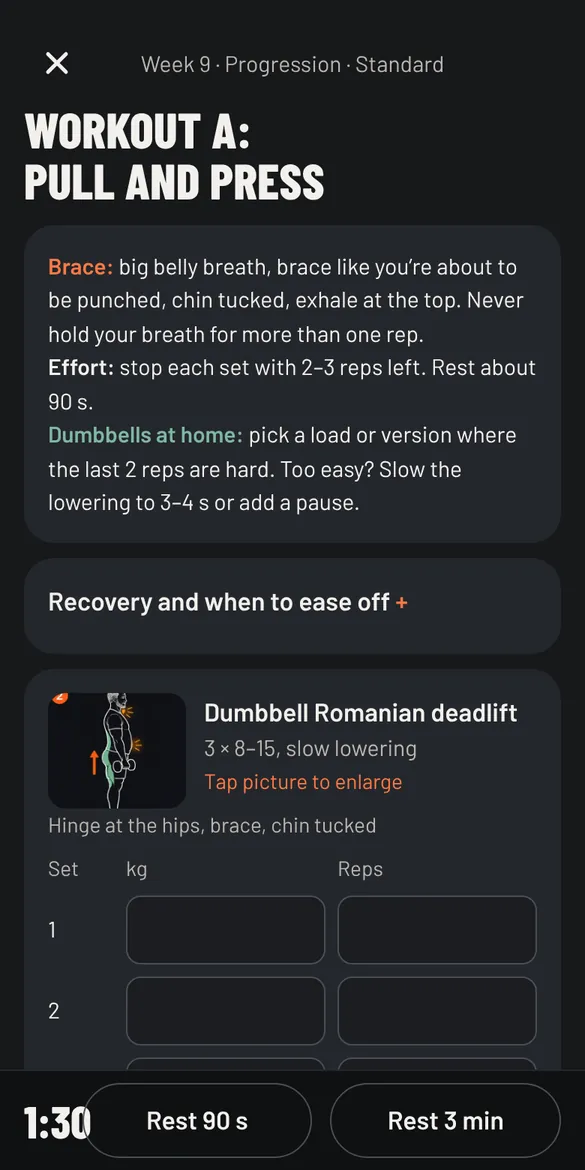
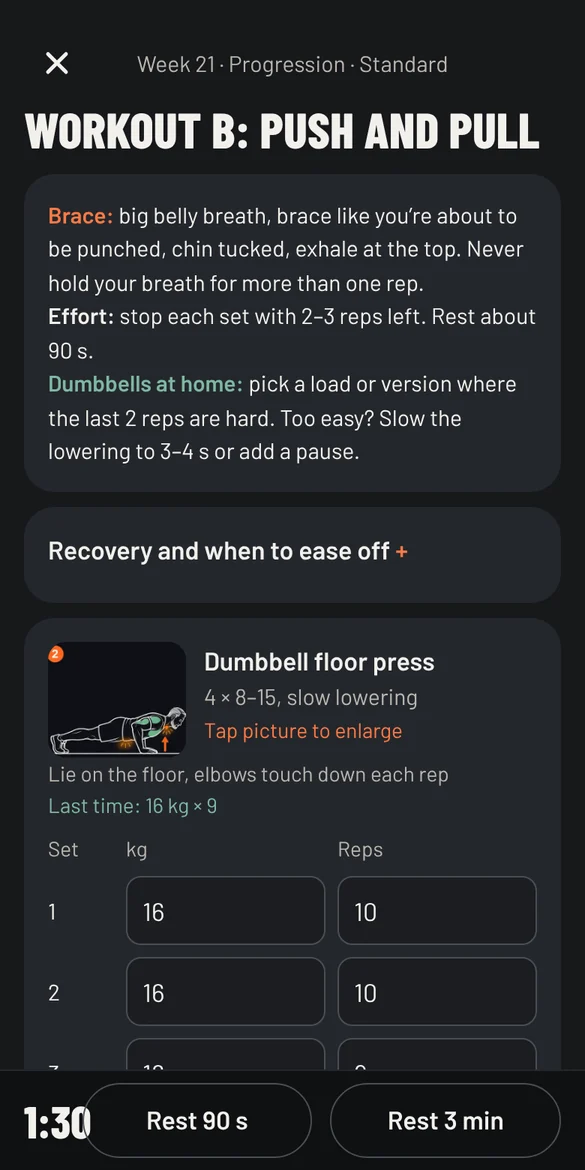
App preview: every screen retaken from one example user with filled-in data
Claude-Session: https://claude.ai/code/session_01Hr1Vhy7JFwF6pmfEZcUMyD

diff --git a/index.html b/index.html
@@ -306,7 +306,7 @@
   <div class="wrap railhead">
     <div class="sechead">
       <h2>It tells you what to do. Then shows you how.</h2>
-      <p>Real screens from the current app, not mock-ups. It guides you through each day, tracks your progress and saves you designing your own program. The snore scores shown are example data, not a member’s results.</p>
+      <p>Real screens from the current app, not mock-ups. It guides you through each day, tracks your progress and saves you designing your own program. The scores, sessions and weights shown are example data, not a member’s results.</p>
     </div>
     <div class="arrows"><button type="button" id="prev" aria-label="Previous screen">←</button><button type="button" id="next" aria-label="Next screen">→</button></div>
   </div>
@@ -314,10 +314,10 @@
     <figure class="shot"><div class="phone"><img src="img/app-day.webp" width="585" height="1170" loading="lazy" alt="The app's Today screen showing a snore score in the high twenties, marked as improving and 28% below the starting point, with the day's sessions listed and a reminder to keep using CPAP every night. Example data."></div><figcaption><b>Daily training guidance</b><span>Your snore score and each day’s sessions, in order. <i>Example data.</i></span></figcaption></figure>
     <figure class="shot"><div class="phone"><img src="img/app-progress.webp" width="585" height="1170" loading="lazy" alt="The Progress screen with a chart of average snore score by week over 21 weeks, falling unevenly from a baseline of 40 to 29, close to a dashed target line 33% below baseline. Example data."></div><figcaption><b>Your snore score over time</b><span>Weekly averages against your own baseline. <i>Example data.</i></span></figcaption></figure>
     <figure class="shot"><div class="phone"><img src="img/app-routine.webp" width="585" height="1170" loading="lazy" alt="The airway routine player showing the tongue press exercise with an airway drawing, numbered steps and a note on where you should feel it."></div><figcaption><b>Exercise demonstrations</b><span>Step-by-step drawings and cues for every move.</span></figcaption></figure>
-    <figure class="shot"><div class="phone"><img src="img/app-plan.webp" width="585" height="1170" loading="lazy" alt="The Plan screen showing the four stages across 52 weeks and a monthly calendar with milestone days marked."></div><figcaption><b>The 52-week structure</b><span>Four stages, a calendar and milestones.</span></figcaption></figure>
-    <figure class="shot"><div class="phone"><img src="img/app-level.webp" width="585" height="1170" loading="lazy" alt="The Training level screen with separate Strength and Cardio choices of Foundation, Standard and Advanced, and a recommendation with its reasons."></div><figcaption><b>Your training level</b><span>Strength and cardio set separately.</span></figcaption></figure>
-    <figure class="shot"><div class="phone"><img src="img/app-workout.webp" width="585" height="1170" loading="lazy" alt="A strength workout screen listing exercises with sets, reps, a log for weights and rest timers."></div><figcaption><b>Strength and cardio sessions</b><span>Sets, reps, logging and rest timers.</span></figcaption></figure>
-    <figure class="shot"><div class="phone"><img src="img/app-log.webp" width="585" height="1170" loading="lazy" alt="The Log last night screen with fields for snore score, partner rating, daytime tiredness and sleep quality."></div><figcaption><b>Progress tracking</b><span>A one-minute log each morning.</span></figcaption></figure>
+    <figure class="shot"><div class="phone"><img src="img/app-plan.webp" width="585" height="1170" loading="lazy" alt="The Plan screen showing the four stages across 52 weeks with the first complete, and a November calendar where most days are marked all done and a few some done. Example data."></div><figcaption><b>The 52-week structure</b><span>Four stages, a calendar of what you’ve done, and milestones.</span></figcaption></figure>
+    <figure class="shot"><div class="phone"><img src="img/app-level.webp" width="585" height="1170" loading="lazy" alt="The Training level screen in week 21, with separate Strength and Cardio choices of Foundation, Standard and Advanced, and a recommendation with its reasons."></div><figcaption><b>Your training level</b><span>Strength and cardio set separately.</span></figcaption></figure>
+    <figure class="shot"><div class="phone"><img src="img/app-workout.webp" width="585" height="1170" loading="lazy" alt="A strength workout screen in week 21 listing the dumbbell floor press with four sets, last time’s weight and reps, and today’s sets being filled in. Example data."></div><figcaption><b>Strength and cardio sessions</b><span>Sets, reps, last time’s numbers and rest timers.</span></figcaption></figure>
+    <figure class="shot"><div class="phone"><img src="img/app-log.webp" width="585" height="1170" loading="lazy" alt="The Log last night screen with a snore score of 27 entered and ratings set for partner, daytime tiredness and sleep quality. Example data."></div><figcaption><b>Progress tracking</b><span>A one-minute log each morning.</span></figcaption></figure>
   </div>
   <div class="wrap">
     <div class="moves">
